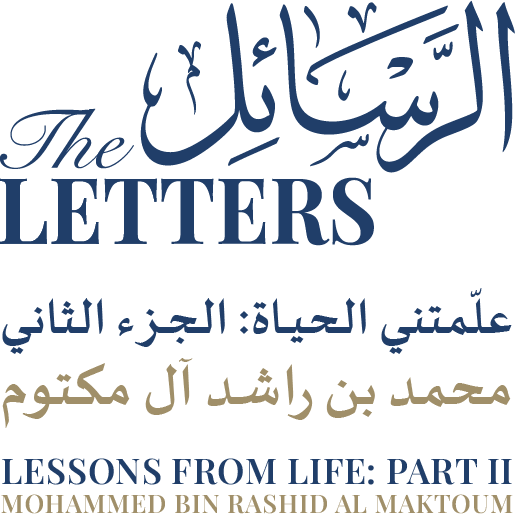
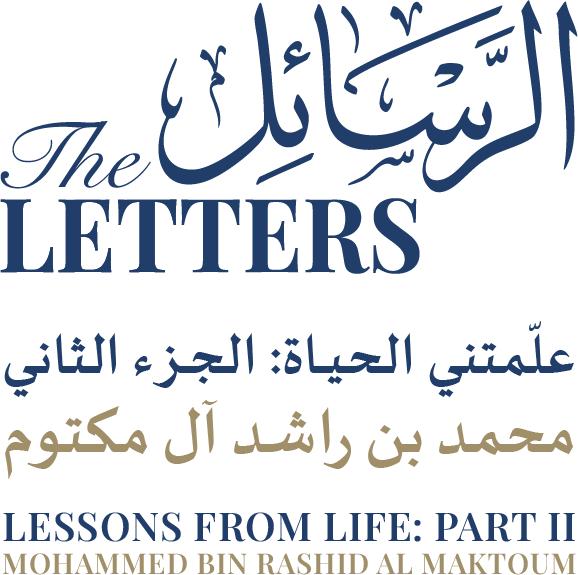
New cover artwork, section reorder, mobile hero size, book centring
- New English cover plate in. Split at its natural 331px gutter (x 880-1210),
  trimmed to books 783x605 and title 578x575, both tight on all four edges.
  Title grew from 515 to 578 native so its size ceiling rose to match.
  Version markers added: the files were replaced in place and a browser
  holding the old ones would keep serving them.
- Quote attribution set to the plain form, dropping the tatweel elongation
  that was carried over from the layout artwork.
- Pre-order now precedes Bulk Sales.
- Mobile hero figure enlarged. It was not height-limited as I had assumed but
  WIDTH-limited: 330px of a 375px screen, inside the stage's 6vw padding, so
  object-fit:contain letterboxed it and the extra height went unused.
  Cancelling that padding lets it bleed full width - painted 375x487, up from
  330x455.
- Book columns centred. <picture> is inline and shrink-wraps, so
  place-items:center was centring the WRAPPER rather than the image. It only
  showed on the title, because the books image happens to fill its whole
  track; the title sat 65px left of centre. Both now centre exactly.

Verified at 1440 and 375: correct section order, both columns centred, no
horizontal overflow, 7 headings, attribution free of tatweel.

diff --git a/index.html b/index.html
@@ -127,27 +127,26 @@
 
 <main id="main">
 
-  <!-- ============ COVER ============ -->
   <!-- ============ THE BOOK ============ -->
   <!-- Two columns on a white ground: books left, title lockup right. Split
-       from the single supplied plate at its natural 125px gutter, so each
-       half can be placed independently and stack on narrow screens. -->
+       from the single supplied plate at its natural gutter, so each half can
+       be placed independently and stack on narrow screens. -->
   <section class="book-split" aria-label="The book">
 
     <div class="book-split__col book-split__col--books" data-drift="-26">
       <picture>
-        <source srcset="images/part2/cover-books.webp" type="image/webp" />
-        <img src="images/part2/cover-books.png" alt="" width="783" height="605"
+        <source srcset="images/part2/cover-books.webp?v=2" type="image/webp" />
+        <img src="images/part2/cover-books.png?v=2" alt="" width="783" height="605"
              loading="lazy" decoding="async" />
       </picture>
     </div>
 
     <div class="book-split__col book-split__col--title" data-drift="14">
       <picture>
-        <source srcset="images/part2/cover-title.webp" type="image/webp" />
-        <img src="images/part2/cover-title.png"
+        <source srcset="images/part2/cover-title.webp?v=2" type="image/webp" />
+        <img src="images/part2/cover-title.png?v=2"
              alt="Lessons from Life: Part II – The Letters, by Mohammed bin Rashid Al Maktoum"
-             width="515" height="514" loading="lazy" decoding="async" />
+             width="578" height="575" loading="lazy" decoding="async" />
       </picture>
     </div>
 
@@ -173,7 +172,7 @@
         </p>
 
         <p class="quote-ar" lang="ar" dir="rtl">الحكمـة أن لا نبـني فقط شـيـئـاً للنـاس،  بل أن نبني شيئاً فيهم .. والأمانة أن تترك شيئاً يمكن أن يختصر الطريق لمن يحمل من بعدك الأمانة.</p>
-        <cite class="quote-cite quote-cite--ar" lang="ar" dir="rtl">الشيخ مـحمـــــــد بن راشـــــــــد آل مكــتــــــوم</cite>
+        <cite class="quote-cite quote-cite--ar" lang="ar" dir="rtl">الشيخ محمد بن راشد آل مكتوم</cite>
 
         <p class="quote-en">Life has also taught me that wisdom is not only building something for people. It is building something within them. And true responsibility lies in leaving something behind that can shorten the path for those who carry the mission forward.</p>
         <cite class="quote-cite">Sheikh Mohammed bin Rashid Al Maktoum</cite>
@@ -246,6 +245,17 @@
     </div>
   </section>
 
+  <!-- ============ CTA ============ -->
+  <section class="section cta-band band--dark" id="order"
+           data-bg="images/part2/preorder-bg">
+    <div class="shell">
+      <p class="availability"><strong>Pre-order now:</strong> <span>Arabic edition</span></p>
+      <p class="ships">English edition coming soon</p>
+      <a class="button" href="https://shop.askexplorer.com/hh-books/lessons-from-life-part-two-the-letters.html" target="_blank" rel="noopener"
+         data-track="preorder-arabic">Pre-Order</a>
+    </div>
+  </section>
+
   <!-- ============ BULK SALES ============ -->
   <section class="section band--dark bulk-band" id="bulk"
            data-bg="images/part2/bulk-bg">
@@ -256,17 +266,6 @@
         Contact <a href="tel:+97143408805">04&nbsp;340&nbsp;8805</a>
         or <a href="mailto:retail@askexplorer.com">retail@askexplorer.com</a>
       </p>
-    </div>
-  </section>
-
-  <!-- ============ CTA ============ -->
-  <section class="section cta-band band--dark" id="order"
-           data-bg="images/part2/preorder-bg">
-    <div class="shell">
-      <p class="availability"><strong>Pre-order now:</strong> <span>Arabic edition</span></p>
-      <p class="ships">English edition coming soon</p>
-      <a class="button" href="https://shop.askexplorer.com/hh-books/lessons-from-life-part-two-the-letters.html" target="_blank" rel="noopener"
-         data-track="preorder-arabic">Pre-Order</a>
     </div>
   </section>
 

diff --git a/css/site.css b/css/site.css
@@ -216,15 +216,30 @@ h1, h2, h3 { margin: 0; font-weight: 700; line-height: 1.2; }
     flex: 0 0 auto;
   }
 
-  /* Anchored to the bottom edge and capped by height, which is the axis that
-     actually runs out in portrait. */
+  /* Fills the space under the title rather than sitting small at the bottom.
+     flex:1 lets it take whatever the title leaves, and the height cap rises to
+     72svh; object-position keeps it bottom-anchored as it grows. */
+  /* Bleeds past the stage's 6vw side padding: the figure was width-limited to
+     330px of a 375px screen, so `contain` letterboxed it and the extra height
+     went unused. Cancelling the padding lets it use the full width. */
   .hero__art--figure {
+    align-self: stretch;
+    margin-inline: -6vw;
     width: auto;
-    height: min(56svh, 560px);
-    margin-top: auto;
-    flex: 0 0 auto;
+    height: auto;
+    min-height: 0;
+    flex: 1 1 auto;
+    margin-top: clamp(12px, 3svh, 32px);
+    display: grid;
+    place-items: end center;
   }
-  .hero__art--figure img { width: auto; height: 100%; }
+  .hero__art--figure img {
+    width: auto;
+    height: 100%;
+    max-height: min(72svh, 720px);
+    object-fit: contain;
+    object-position: bottom center;
+  }
 
   /* The figure now occupies the bottom edge, where the cue used to sit. */
   .scroll-cue { display: none; }
@@ -263,25 +278,31 @@ h1, h2, h3 { margin: 0; font-weight: 700; line-height: 1.2; }
   display: grid;
   grid-template-columns: 1fr 1fr;
   align-items: center;
+  justify-items: center;
   gap: clamp(28px, 4vw, 72px);
   background: #fff;
   padding: clamp(72px, 10vw, 150px) var(--gutter);
   min-height: clamp(560px, 78svh, 940px);
 }
 
-.book-split__col { display: grid; place-items: center; }
+.book-split__col { display: grid; place-items: center; width: 100%; }
+/* <picture> is inline and shrink-wraps, so centring the column centred the
+   WRAPPER, not the image inside it. That only showed on the title, because the
+   books image happens to fill its whole track. Making the wrapper a full-width
+   block and centring the image within it fixes both. */
+.book-split__col picture { display: block; width: 100%; }
 /* Drift is applied inline by the parallax handler; will-change keeps it on its
    own layer so the two columns do not repaint the white ground each frame. */
 .book-split__col[data-drift] { will-change: transform; }
-.book-split__col img { width: 100%; height: auto; }
+.book-split__col img { width: 100%; height: auto; margin-inline: auto; }
 
 /* Fluid, so the pair fills a wide viewport instead of floating small in it.
-   Ceilings are the assets' native pixel widths - books 783, title 515 - past
+   Ceilings are the assets' native pixel widths - books 783, title 578 - past
    which they would simply be upscaled. The source plate is 2000x1306, so that
    is the hard limit; a larger export is needed to go bigger crisply, and on a
    2x screen these are already being resampled. */
 .book-split__col--books img { max-width: min(100%, clamp(420px, 46vw, 780px)); }
-.book-split__col--title img { max-width: min(100%, clamp(300px, 31vw, 515px)); }
+.book-split__col--title img { max-width: min(100%, clamp(300px, 31vw, 578px)); }
 
 /* Books on top, title beneath. */
 @media (max-width: 899.98px) {
